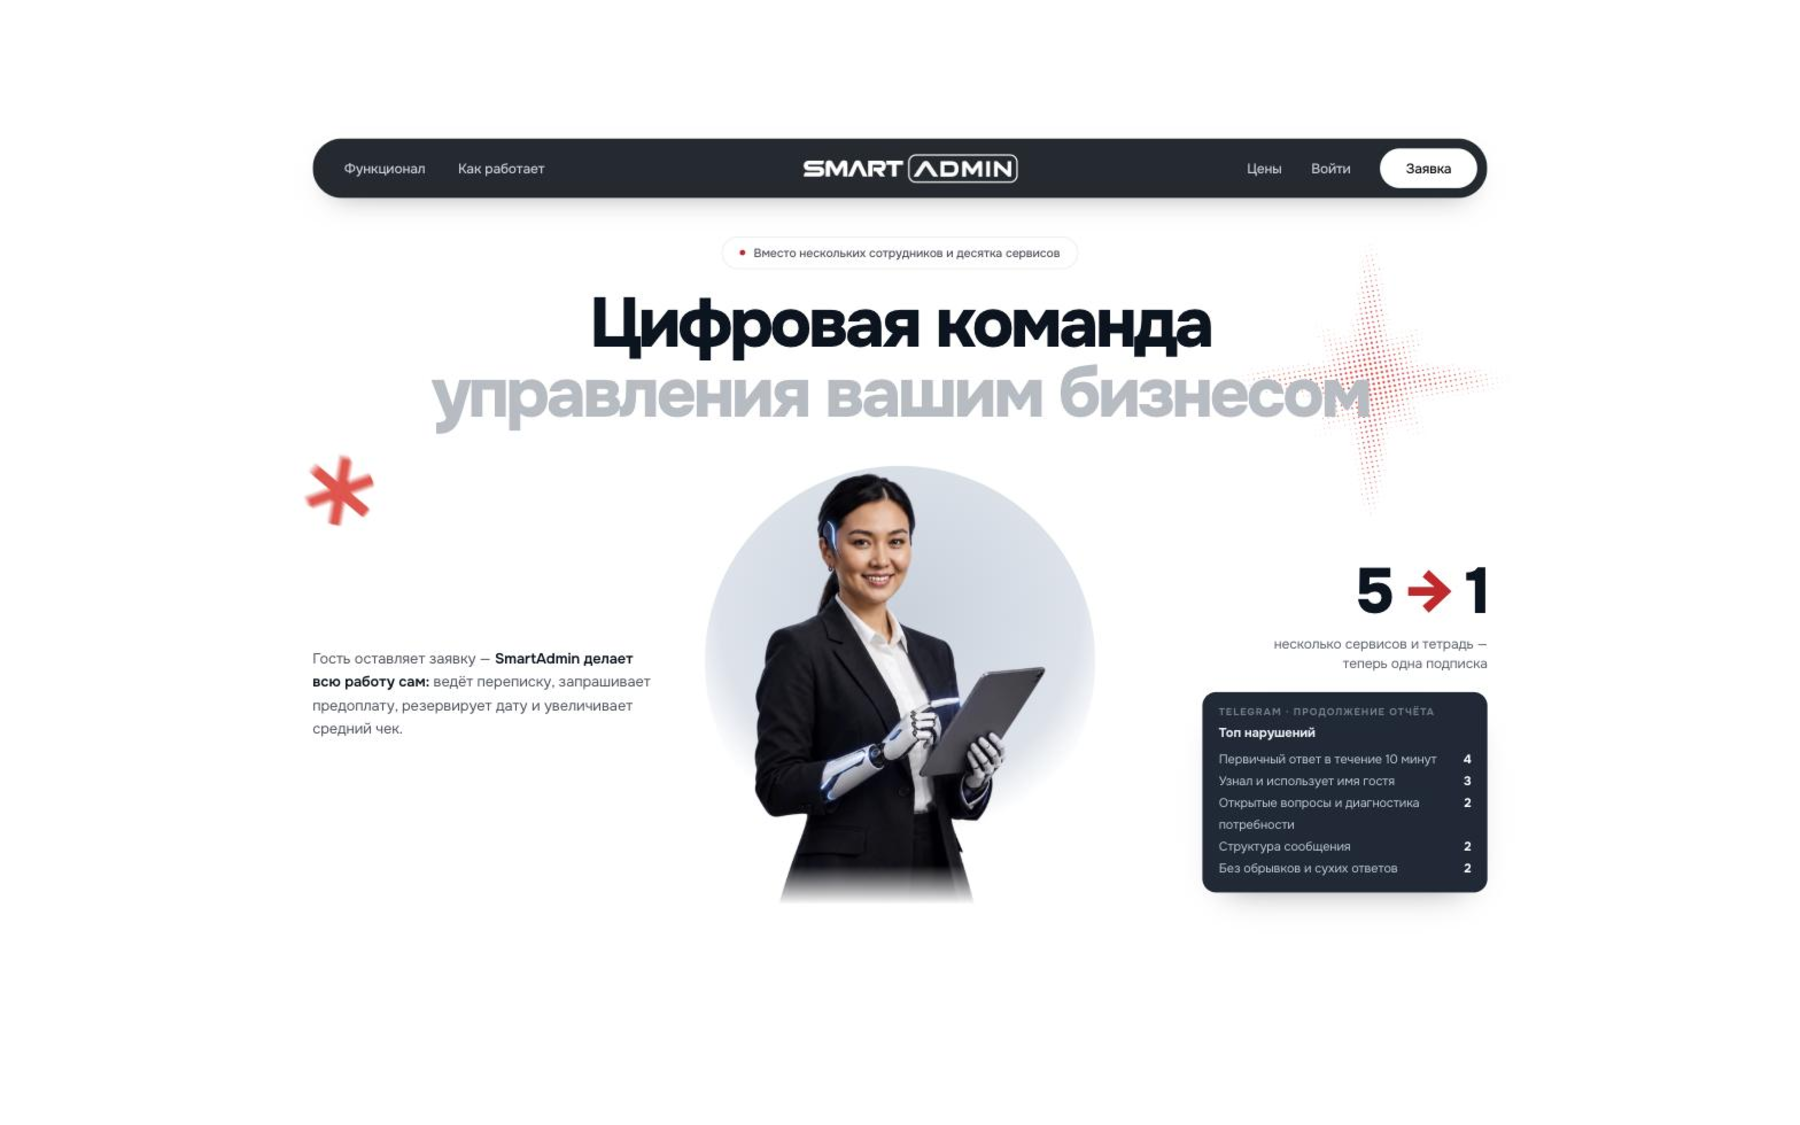
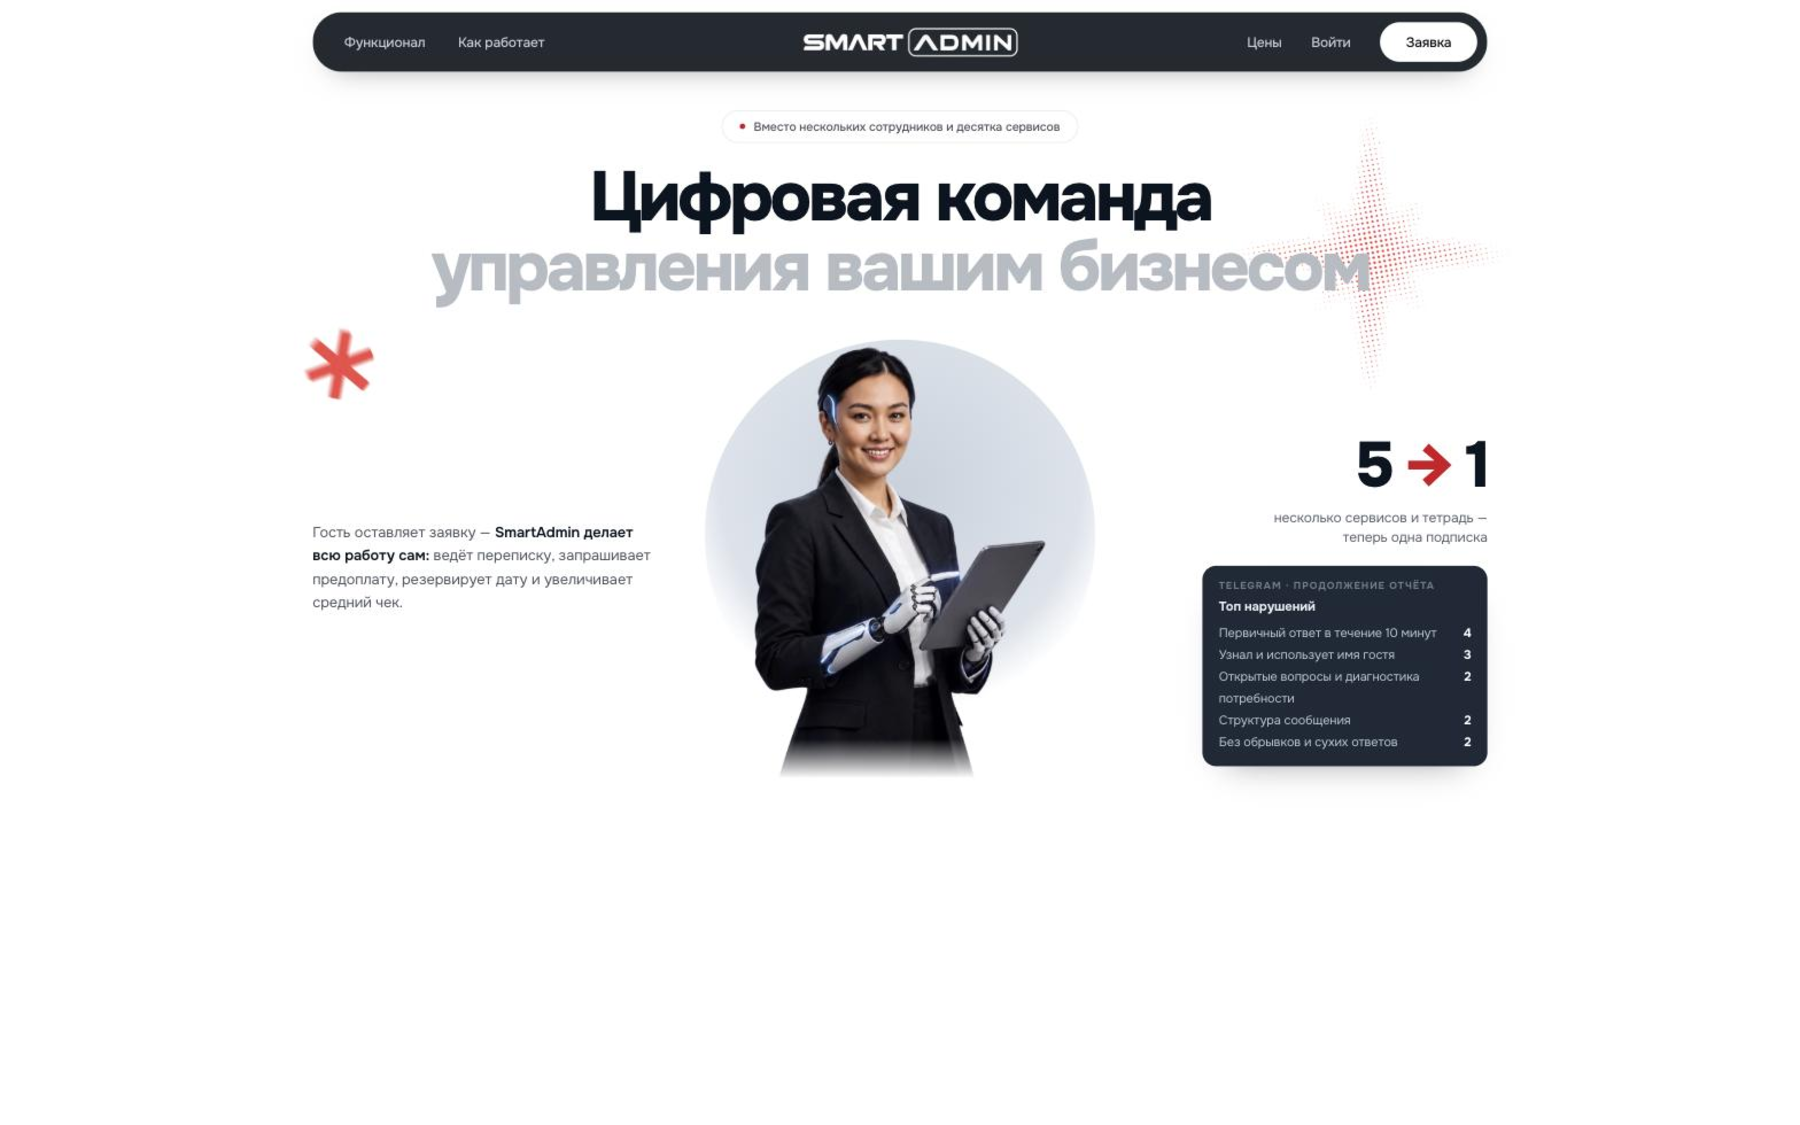
Портфолио: карточка SmartAdmin показывала белую полосу вместо скриншота
Две причины, обе исправлены. Карточка во всю ширину сетки (1116×236) при
object-fit:cover обрезала превью до тонкой верхней полосы — последние три
кейса переведены на span 2, теперь они заполняют ряд целиком, а пропорция
карточки 373×236 почти совпадает с превью 16:10 и скриншот виден целиком.
Само превью пересобрано с полями снизу, а не по центру: карточка режет
картинку сверху (object-position:top), поэтому контент должен начинаться
от верхнего края. SW v121.

Changed region(s): [[0.1556, 0.0, 0.84, 0.8089], [0.1556, 0.28, 0.2178, 0.3422]]

diff --git a/index.html b/index.html
@@ -975,9 +975,9 @@ h1.hero-title{font-family:var(--font-display);font-weight:600;line-height:1.04;l
 .pf-8{grid-column:span 3}
 .pf-9{grid-column:span 3}
 .pf-10{grid-column:span 3}
-.pf-11{grid-column:span 3}
-.pf-12{grid-column:span 3}
-.pf-13{grid-column:span 6}
+.pf-11{grid-column:span 2}
+.pf-12{grid-column:span 2}
+.pf-13{grid-column:span 2}
 
 /* ============ PRICING ============ */
 .promo-pill{display:flex;align-items:center;justify-content:center;gap:12px;text-align:center;

diff --git a/sw.js b/sw.js
@@ -4,7 +4,7 @@
    Versioned cache name; old caches purged on activate.
    Bypass: ?nosw=1 query param tells SW to skip caching for that request. */
 
-const CACHE = 'sits-v120';
+const CACHE = 'sits-v121';
 
 /* Файлы, которые точно нужны для офлайн-первой загрузки */
 const PRECACHE = [
